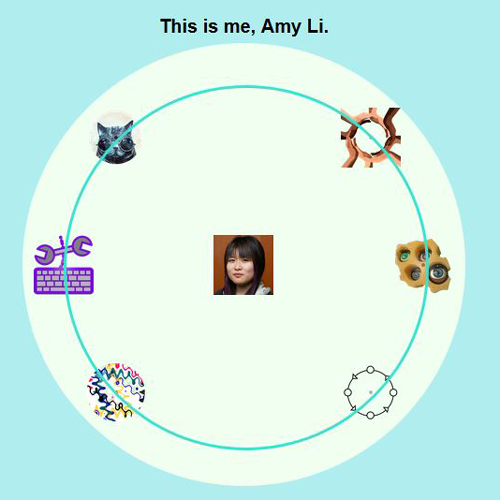
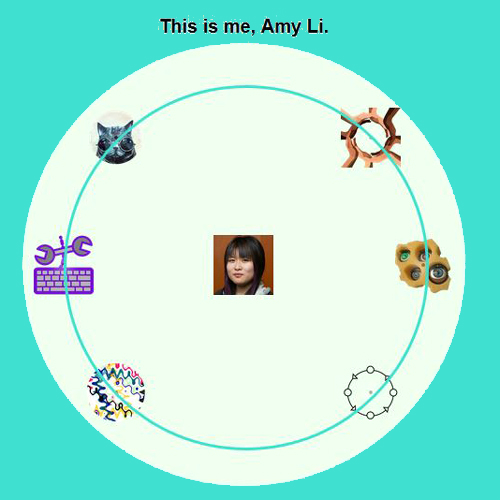
Update pages to note that unity may not work on chrome

diff --git a/css/self-orbit-styles.css b/css/self-orbit-styles.css
@@ -1,6 +1,5 @@
-/* 1. Write styles for the body tag to give your page a background color, image or texture. */
 body {
-	background-color: paleturquoise;
+	background-color: turquoise;
 }
 
 .container {
@@ -8,8 +7,6 @@ body {
 	margin: 0 auto;
 }
 
-
-/* 2. Write styles for div ID text-display so that it displays below your self-orbit */
 #text-display {
     margin: 0 auto;
     padding-top: 0;
@@ -24,10 +21,8 @@ body {
     color: black;
 }
 
-/* The below styles position icons on the circle  */
 #circle-container {
 	position: relative; 
-	/* CHALLENGE: Can you explain why this div is positioned 'relative'? */
 	width: 24em;
 	height: 24em;
 	padding: 2.8em; /* = 2em * 1.4 (2em = half the width of an img, 1.4 = sqrt(2))*/
@@ -36,10 +31,7 @@ body {
 	margin: 0 auto 1em;	
 }
 
-/*link size thus resizing the images within them as well*/
 #circle-container a {
-
-	/* 3. Let's write the styles for the circle-container links div id together. */
 	display: block;
 	overflow: hidden;
 	position: absolute;
@@ -50,7 +42,7 @@ body {
 	margin: -2em; /* 2em = 4em/2 */ /* half the width */
 
 }
-/* image positioning*/
+
 #circle-container img { display: block; width: 100%; }
 #deg0 { transform: translate(12em); } /* 12em = half the width of the wrapper */
 #deg45 { transform: rotate(45deg) translate(12em) rotate(-45deg); }
@@ -59,10 +51,7 @@ body {
 #deg225 { transform: rotate(225deg) translate(12em) rotate(-225deg); }
 #deg315 { transform: rotate(315deg) translate(12em) rotate(-315deg); }
 
-
-/* this is for showing the orbit/inner-circle on which the images are placed */
 #circle-container:after {
-/* 4. We'll write the styles for the circle-container for the circle border together. */
 	position: absolute;
 	top: 2.8em; 
 	left: 2.8em;
@@ -75,15 +64,10 @@ body {
 	content: '';
 }
 
-/* this is for showing the hover state of the circle on which the images are placed */
 #circle-container:hover:after { 
-	/* 5. We'll write the styles for the circle-container for the circle border together. */
-	/*change opacity to solid*/
 	opacity: 1;
 }
 
-
-/* 6. What do the below styles control? */
 #circle-container a:not(#center):after {
 	position: absolute;
 	top: 50%; left: 50%;

diff --git a/point-and-click-example.html b/point-and-click-example.html
@@ -75,7 +75,7 @@
 			</div>
 		</header>
 		<div class="content">
-			<p>This is and example of the Point & Click game. Description: Students re-create this Point & Click game along with the instructors. Upon completion, students will re-imagine/change the game based on this template in a week long challenge. See my re-imagined game <a href="heart_breaker.html">here</a>.</p>
+			<p>This is and example of the Point & Click game. Description: Students re-create this Point & Click game along with the instructors. Upon completion, students will re-imagine/change the game based on this template in a week long challenge. See my re-imagined game <a href="heart_breaker.html">here</a>. NOTE: Unity Web Player will not work on recent versions of Chrome. Please open this page with Firefox.</p>
 			<div id="unityPlayer">
 				<div class="missing">
 					<p>Hello! Unity Web Player may not work if you are using Chrome, try running this on Firefox. Otherwise download the Unity Web Player Plugin from the link below.</p>

diff --git a/intro-activity.html b/intro-activity.html
@@ -76,7 +76,7 @@
 			</div>
 		</header>
 		<div class="content">
-			<p>This is an intro to Unity example activity. Description: Students create a background and avatar to use in Unity, where they create their first scripts to rotate the avatar.</p>
+			<p>This is an intro to Unity example activity. Description: Students create a background and avatar to use in Unity, where they create their first scripts to rotate the avatar. NOTE: Unity Web Player will not work on recent versions of Chrome. Please open this page with Firefox.</p>
 			<div id="unityPlayer">
 				<div class="missing">
 					<p>Hello! Unity Web Player may not work if you are using Chrome, try running this on Firefox. Otherwise download the Unity Web Player Plugin from the link below.</p>

diff --git a/heart-breaker.html b/heart-breaker.html
@@ -77,7 +77,7 @@
 			</div>
 		</header>
 		<div class="content">
-			<p>Heart Breaker, a re-imagined point and click game.</p>
+			<p>Heart Breaker, a re-imagined point and click game. NOTE: Unity Web Player will not work on recent versions of Chrome. Please open this page with Firefox.</p>
 			<div id="unityPlayer" class="cross">
 				<div class="missing">
 					<p>Hello! Unity Web Player may not work if you are using Chrome, try running this on Firefox. Otherwise download the Unity Web Player Plugin from the link below.</p>
